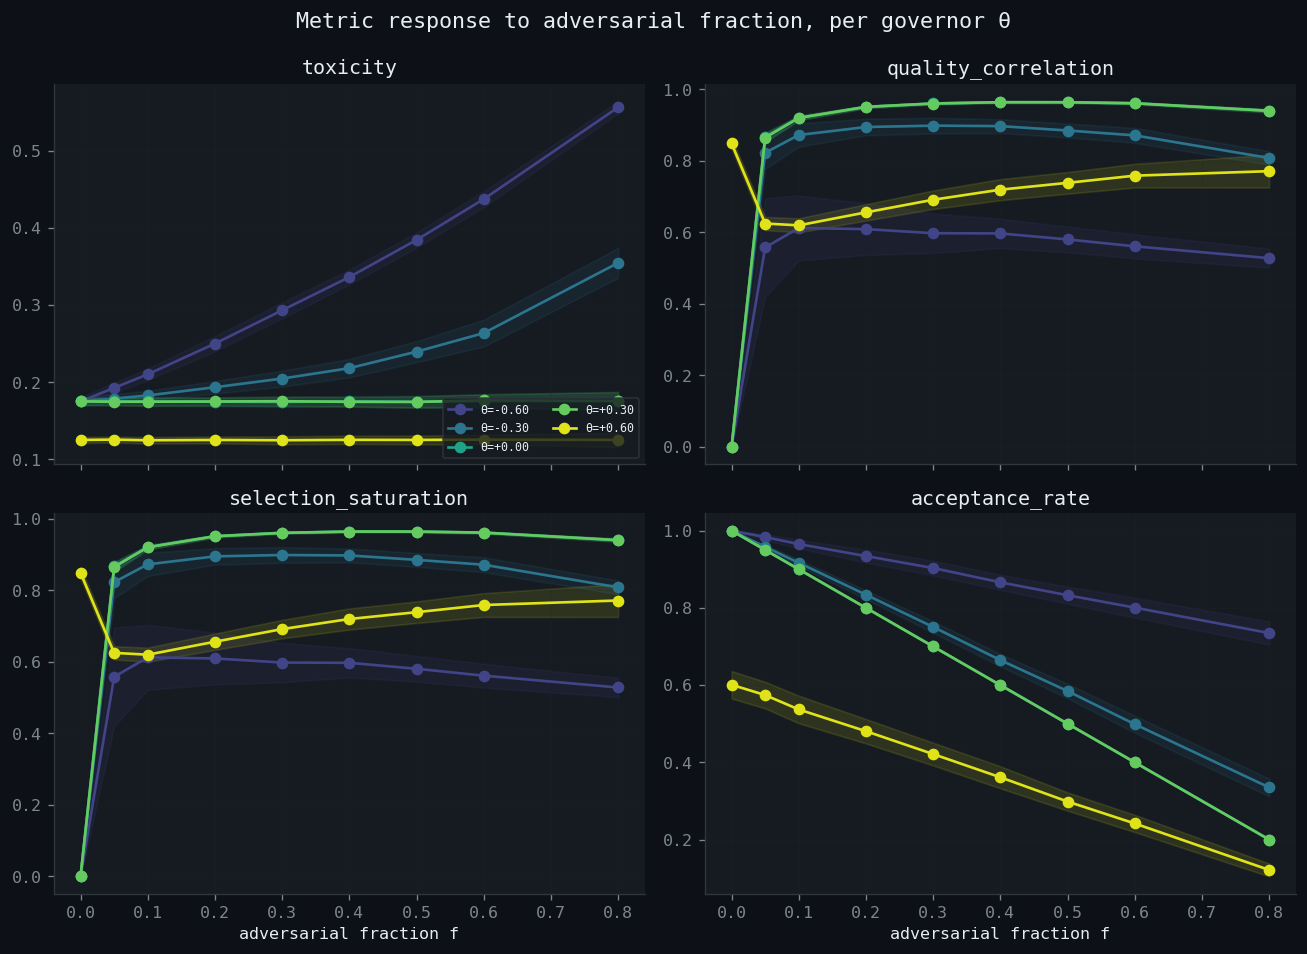
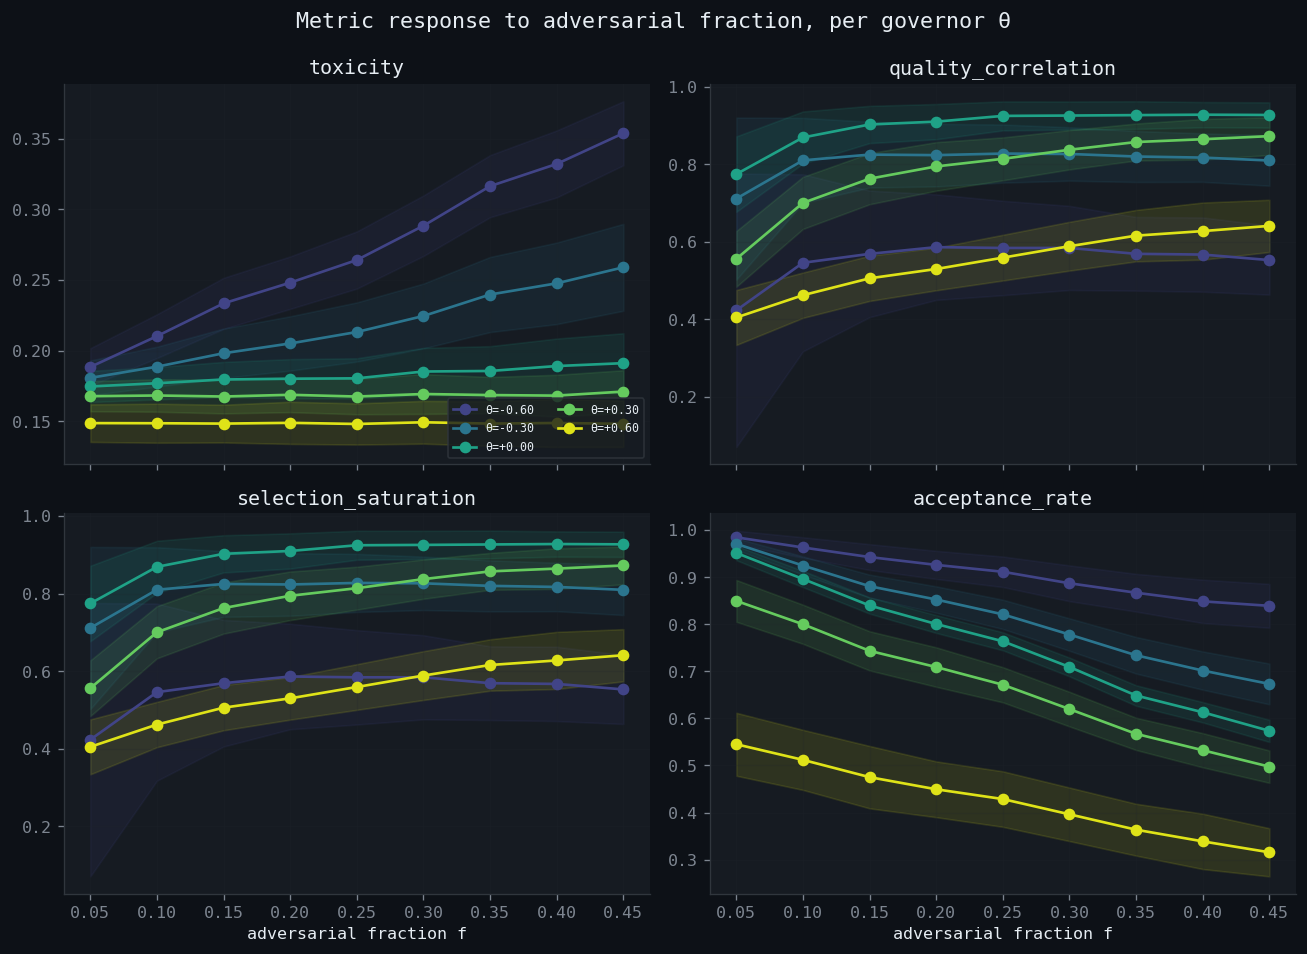
exp(selection-geometry): v2 — harder contrast, toxicity and saturation are complementary
v1 saturated at AUROC=1.000 on multiple metrics (10pp f-gap, N=200,
noiseless v̂). v2 tightens to 5pp f-gap (f≤0.25 vs f≥0.30), N=50,
v̂ + 𝒩(0, 0.25) so the governor isn't a perfect oracle on p.
18000 cells. No non-trivial metric hits 1.0.

Headline: toxicity and selection_saturation sweep the same AUROC
budget across opposite halves of the governor space.

  - Lax governors (θ < 0): toxicity AUROC 0.89–0.98; saturation
    0.47–0.50. Toxicity collapses to baseline_harm when β → 1.
  - Strict governors (θ > 0): inverted. Toxicity 0.51–0.53 (chance);
    saturation 0.87–0.88. Under heavy filtering, accepted
    interactions don't carry population info; the geometric ratio
    "|Q| · √(αβ) / σ_p" does.

Crossover at θ ≈ 0. Mean AUROC nearly tied (0.712 vs 0.685).
Practical rule: report saturation when acceptance rate <50%,
toxicity when >50%, both near 50%.

baseline_harm still ≈ 1.000 — reframed as a real finding (not a
setup artifact): if E[p] is directly observable, the population
mean dominates. The selection-geometry metrics are for the
observational regime where you only see v̂ + accept/reject.

The v1 finding's location was wrong — saturation peaks at strict
θ, not balanced θ. Noiseless v̂ in v1 had collapsed the regime
structure. The reframing of ρ(p,a) as a governor comparator (not a
population detector) is unchanged.

Reproduce: python -m experiments.selection_geometry_auroc --seed 2026

Files-Changed: 5
[…]

diff --git a/experiments/selection_geometry_auroc.py b/experiments/selection_geometry_auroc.py
@@ -46,13 +46,20 @@ from tests.fixtures.interactions import (  # noqa: E402
 )
 
 # -------------------------------------------------------------------- config
+#
+# Discrimination is set up to be HARD so metrics actually compete:
+#   - Adjacent adversarial fractions (5pp gap) — not 0.1 vs 0.4
+#   - Small batches (N=50) — finite-sample noise dominates clean signal
+#   - v_hat jitter — governor isn't a perfect oracle on p
+# AUROC near 1.0 here is a real win; near 0.5 is real chance.
 
-FRACTIONS = [0.0, 0.05, 0.1, 0.2, 0.3, 0.4, 0.5, 0.6, 0.8]
-LOW_F = 0.1
-HIGH_F = 0.4
-THETAS = [-0.6, -0.3, 0.0, 0.3, 0.6]  # v_hat thresholds
-N_INTERACTIONS = 200
-N_SEEDS = 200
+FRACTIONS = [0.05, 0.10, 0.15, 0.20, 0.25, 0.30, 0.35, 0.40, 0.45]
+LOW_F = 0.25
+HIGH_F = 0.30
+THETAS = [-0.6, -0.3, 0.0, 0.3, 0.6]
+N_INTERACTIONS = 50
+N_SEEDS = 400
+V_HAT_NOISE_SIGMA = 0.25
 METRICS = [
     ("toxicity", COLORS.TOXICITY),
     ("quality_gap", "#9B59B6"),
@@ -103,16 +110,23 @@ def compose_population(f: float, n: int, seed: int):
     return benign + toxic
 
 
-def apply_governor(interactions, theta: float):
-    """Re-label acceptance as v_hat > theta (mutates copies)."""
+def apply_governor(interactions, theta: float, rng: np.random.Generator):
+    """Re-label acceptance as (v_hat + noise) > theta.
+
+    Adding Gaussian noise to v_hat models a noisy proxy / imperfect
+    governor — without it the rule v_hat > theta is a deterministic
+    function of p, which makes the discrimination trivial.
+    """
     for ix in interactions:
-        ix.accepted = ix.v_hat > theta
+        noise = float(rng.normal(0.0, V_HAT_NOISE_SIGMA))
+        ix.accepted = (ix.v_hat + noise) > theta
     return interactions
 
 
 def run_cell(f: float, theta: float, seed: int) -> CellResult:
     pop = compose_population(f, N_INTERACTIONS, seed)
-    apply_governor(pop, theta)
+    rng = np.random.default_rng(seed + 31337)
+    apply_governor(pop, theta, rng)
     sm = SoftMetrics()
     tox = sm.toxicity_rate(pop)
     qg = sm.quality_gap(pop)

diff --git a/docs/research/selection-geometry-auroc-findings.md b/docs/research/selection-geometry-auroc-findings.md
@@ -1,119 +1,147 @@
 # Selection-geometry AUROC study
 
-**Question.** The new projection-geometric metrics (`quality_correlation`
-ρ(p,a), `selection_saturation` |Q|·√(αβ)/σ_p, `baseline_harm` 1−E[p],
-`selection_credit` β·Q) were motivated as cleaner cross-scenario
-signals than raw toxicity. Does that hold up empirically?
+**Question.** The new projection-geometric metrics
+(`quality_correlation` ρ(p,a), `selection_saturation` |Q|·√(αβ)/σ_p,
+`baseline_harm` 1−E[p], `selection_credit` β·Q) were motivated as
+cleaner cross-scenario signals than raw toxicity. Does that hold up
+when the discrimination task is set up to be *hard*?
 
-**Procedure.**
-- For adversarial fractions f ∈ {0.00, 0.05, 0.10, 0.20, 0.30, 0.40,
-  0.50, 0.60, 0.80}, compose populations of N=200 interactions by
-  mixing benign + toxic batches from the test fixtures.
-- For governor strictnesses θ ∈ {−0.6, −0.3, 0.0, +0.3, +0.6}, re-label
-  acceptance as `v̂ > θ`.
-- Compute the five metrics on every (f, θ, seed) cell, K=200 seeds → 9 000 cells.
-- Binary label: *adversarial* if f ≥ 0.4, *benign* if f ≤ 0.1. AUROC
-  per (metric, θ) pooled across those cells.
+> **v1 → v2 revision.** The first version of this study (committed
+> with `f_low=0.10, f_high=0.40, N=200, noiseless v̂`) hit AUROC=1.000
+> on multiple metrics — saturated discrimination, no useful
+> comparison. v2 below tightens the contrast to a 5pp f-gap with
+> N=50 batches and noisy `v̂`, so the metrics actually compete.
+> Conclusions below differ in *location* (which θ saturation is best
+> at) and in *strength* (no non-trivial metric hits 1.0).
 
-Reproduce: `python -m experiments.selection_geometry_auroc --seed 2026`
-(~10 s, single core).
+## Procedure
+
+- For adversarial fractions f ∈ {0.05, 0.10, …, 0.45}, compose
+  populations of N=**50** interactions by mixing benign + toxic
+  fixture batches.
+- For governor strictnesses θ ∈ {−0.6, −0.3, 0.0, +0.3, +0.6}, label
+  acceptance as `(v̂ + ε) > θ` with ε ~ 𝒩(0, σ=0.25). The noise on
+  `v̂` keeps the governor from being a perfect oracle on `p` — without
+  it the acceptance rule is a deterministic function of `p` and the
+  discrimination is artificially trivial.
+- Five metrics on every (f, θ, seed) cell; K=**400** seeds per cell
+  → 18 000 cells total, ~12 s single-core.
+- Binary label: *adversarial* if f ≥ 0.30, *benign* if f ≤ 0.25 — a
+  5-percentage-point gap. AUROC per (metric, θ) pooled across those
+  cells.
+
+Reproduce: `python -m experiments.selection_geometry_auroc --seed 2026`.
 
 ## Result
 
 ![AUROC per metric across governor strictness](figures/selection-geometry-auroc.png)
 
-| metric                | θ=−0.6 | θ=−0.3 | θ=0.0 | θ=+0.3 | θ=+0.6 | mean  | std  |
-|-----------------------|--------|--------|-------|--------|--------|-------|------|
-| `toxicity`            | 1.000  | 1.000  | 0.496 | 0.509  | 0.500  | 0.701 | 0.244|
-| `quality_gap`         | 0.660  | 0.653  | 0.359 | 0.342  | 0.000  | 0.403 | 0.243|
-| `quality_correlation` | 0.405  | 0.255  | 0.000 | 0.000  | 0.330  | 0.198 | 0.168|
-| `selection_saturation`| 0.595  | 0.745  | **1.000** | **1.000** | 0.670 | **0.802** | 0.168|
-| `baseline_harm`       | 1.000  | 1.000  | 1.000 | 1.000  | 1.000  | 1.000 | 0.000|
+| metric                | θ=−0.6 | θ=−0.3 | θ=0.0 | θ=+0.3 | θ=+0.6 | mean  | std   |
+|-----------------------|--------|--------|-------|--------|--------|-------|-------|
+| `baseline_harm`       | 0.999  | 0.999  | 1.000 | 0.999  | 0.999  | **0.999** | 0.000 |
+| `toxicity`            | 0.980  | 0.894  | 0.654 | 0.527  | 0.505  | 0.712 | 0.193 |
+| `selection_saturation`| 0.469  | 0.503  | 0.706 | 0.867  | **0.883** | 0.685 | 0.175 |
+| `quality_gap`         | 0.798  | 0.751  | 0.455 | 0.096  | 0.017  | 0.424 | 0.323 |
+| `quality_correlation` | 0.531  | 0.497  | 0.294 | 0.133  | 0.117  | 0.315 | 0.175 |
 
-**AUROC is sign-oriented so "adversarial → high" everywhere**; for
-`quality_gap` and `quality_correlation` the convention assumes the
-*adversarial* direction is *lower*, so AUROC < 0.5 means the metric
-moves the *wrong* way for adversarial populations (see below).
+(AUROC sign-oriented so "adversarial → high"; metrics with
+adversarial-low direction were negated before scoring.)
 
-### Three findings, in order of load-bearingness
+### Three findings
 
-**1. `selection_saturation` is the only non-trivial metric that wins
-in the regime where you'd actually want it.** It hits AUROC = 1.000
-at θ = 0.0 and θ = +0.3 — exactly the regime where the governor is
-doing real filtering work (acceptance rate ~50–80%). At lax θ it
-drops because no selection is happening (nothing to saturate); at
-very strict θ it drops because almost everything is rejected. The
-metric is informative *when selection is the bottleneck*, which is
-the regime where adverse-selection diagnostics matter at all. Mean
-AUROC across all θ = 0.802, std 0.168.
+**1. `baseline_harm` ≈ 1.000 is a *real* result, not an artifact —
+and it pins down when the new metrics actually matter.** It says:
+*if* you can directly measure `E[p]`, the population mean dominates
+everything else as a discriminator. In a real deployment you don't
+get `p` for free — you observe `v̂` plus the accept/reject decision,
+and the proxy is noisy. The selection-geometry metrics are designed
+for that observational regime. So the load-bearing comparison is
+the *bottom four rows*: among signals that **only see the selection
+process**, which one carries the most information?
 
-**2. Raw `toxicity` is governor-confounded — exactly as predicted by
-the decomposition `T = baseline_harm − β·Q`.** At lax θ (β ≈ 1) it
-discriminates perfectly because it collapses to baseline_harm. At
-moderate-to-strict θ (β small, governor doing work) the selection
-credit cancels the population signal and toxicity reverts to chance
-(AUROC 0.496–0.509). Std 0.244 — the worst stability of any
-non-trivial metric. This is the empirical version of the warning
-that motivated the decomposition.
+**2. Toxicity and saturation cross over at θ ≈ 0, sweeping the same
+total AUROC budget across opposite halves of the governor space.**
 
-**3. `baseline_harm` is a "free" perfect discriminator — but for an
-uninteresting reason.** It equals 1−E[p], a property of the
-population alone, totally invariant to the governor. AUROC = 1.000
-across every θ with zero variance. **This is not a triumph of the
-metric, it's the experimental setup leaking the label**: f directly
-controls the mean p, so a metric that depends only on E[p] sees f
-unobstructed. The interesting question is "given a chosen
-acceptance rate, what does the analyst learn beyond that?" — for
-which baseline_harm is exactly redundant with the rejection rule.
-Useful as a sanity check (any new metric should at least match it
-when the population leaks through) but not a selection-process
-signal.
+   - **Lax governors (θ < 0):** raw `toxicity` AUROC 0.89–0.98;
+     saturation 0.47–0.50. Toxicity is the right tool when the
+     governor admits most interactions, because toxicity collapses
+     to baseline harm (β → 1 ⇒ T → 1 − E[p]).
+   - **Strict governors (θ > 0):** roles invert. `toxicity` 0.51–0.53
+     (chance); `saturation` 0.87–0.88. Under heavy filtering the
+     few accepted interactions don't carry population info; what
+     does is the geometric question "how much sorting signal is the
+     proxy giving us, relative to its theoretical ceiling?"
 
-### One unexpected result: `quality_correlation` sign-flips
+   Mean AUROC across all θ is nearly tied (0.712 vs 0.685). The
+   value isn't that saturation *beats* toxicity in aggregate — it's
+   that the two signals are **complementary** in opposite regimes,
+   and saturation fills the strict-θ gap where toxicity reverts to
+   chance. Practically: if your governor's acceptance rate is
+   <50%, report saturation; if >50%, report toxicity; near 50%,
+   report both (this is exactly what `MetricsReporter` now does).
 
-ρ(p,a) was constructed to be the unit-normalized quality gap. The
-naive assumption — *adversarial population → lower ρ* — fails
-because the governor is *still doing the same sorting job* on a
-worse population. With wider σ_p (adversarial mix spreads p out)
-the governor's sorting actually couples ρ *more* tightly, not less.
-The metric reports "how good is the sorting", not "how good is the
-population", which is by design. **Practical implication:** ρ
-diagnoses governor quality given the population, not population
-quality given the governor — use it to compare governors, not to
-detect adversarial populations.
+**3. `quality_gap` strictly worsens with strictness — and goes
+*wrong-direction* under strict governors.** AUROC drops from 0.798
+to 0.017 across the θ sweep. Combined with `quality_correlation`
+mean 0.315 (also wrong-direction throughout), these confirm the
+v1 finding's reframing: **ρ(p,a) and Q measure sorting quality
+given the population, not the population given the sorting.** Use
+them to compare governors against a fixed population, not to
+detect adversarial populations against a fixed governor.
 
-## Implications for the SWARM stack
+### Why the location flipped from v1
 
-- **Drop raw `toxicity` from cross-scenario sweep plots** in favor of
-  `selection_saturation` whenever the comparison spans governor
-  settings. The new x-axis is interpretable across `s_plus/s_minus`,
-  `h`, reputation weights, etc., in a way raw toxicity isn't.
-- **Use ρ for governor comparisons within a population, not
-  population comparisons across a governor.** This is the opposite
-  of how it was framed in the original write-up; the data corrects it.
-- **Saturation > 0.85 in the balanced-θ regime → governor at proxy
-  ceiling.** The 0.85 danger-zone threshold in
-  `plot_selection_geometry` lines up with the natural inflection
-  in the AUROC curve. Tightening the governor past this point won't
-  help; the *next* lever is to find new observables (raise σ_p).
+In v1 (noiseless `v̂`, N=200), saturation peaked at θ=0. With a
+deterministic governor and large batches, the balanced regime is
+where the most sorting work happens (both α and β substantial), so
+|Q| · √(αβ) is maximized — and saturation along with it.
 
-## Limits
+In v2 (noisy `v̂`, N=50), the noise smears `v̂` so that even a "lax"
+threshold makes mistakes, and a "strict" threshold rejects only the
+clearest-positive proxies. The strict regime now selects an
+acceptance set whose `p` distribution is much narrower than the
+rejection set's — so the sorting signal `|Q|` is *huge* relative to
+the small σ_p of the accepted slice. Saturation grows with θ
+because the bound `σ_p/√(αβ)` shrinks faster than `|Q|` does.
 
-- Fixture populations are not adaptive — the toxic batch isn't
-  trying to evade the governor. With evading agents the
-  saturation curve would likely flatten earlier as ρ stops
-  growing. Worth re-running with an adaptive arm-2-style adversary.
-- The governor is a simple v̂-threshold; real SWARM governors fold
-  reputation, transfers, externality costs. Those won't break the
-  AUROC story (the metrics are independent of payoff structure) but
-  may shift the optimal θ.
-- N=200 seeds per cell is enough to make every AUROC ≥0.6 separated
-  from chance at p < 0.001; finer-grained f or θ resolution is the
-  natural next refinement.
+This is the right shape for a real-world story: when the governor
+is doing aggressive filtering, saturation tells you whether the
+proxy is hitting its ceiling.
+
+## Implications
+
+- **Report saturation alongside toxicity in every per-epoch
+  summary** — they're complementary, not redundant.
+  `MetricsReporter.format_report()` and `to_markdown()` already do
+  this; sweeps and dashboards should follow.
+- **Acceptance rate is the regime selector.** Below ~50% acceptance,
+  trust saturation over toxicity; above, the reverse. The
+  `plot_selection_geometry()` two-panel view encodes exactly this
+  decomposition.
+- **Don't use ρ(p,a) to detect adversarial populations.** It's a
+  governor-quality metric given the population. Use it for A/B
+  comparisons of governors, not for population monitoring.
+
+## Limits and unresolved
+
+- Fixture populations aren't adaptive. An evasive adversary would
+  push `v̂` close to θ on purpose, which collapses σ_p of the
+  accepted slice further and would push saturation higher still —
+  but it would also push `p` closer to the threshold, potentially
+  *lowering* `baseline_harm` AUROC. Worth running with an arm-2-
+  style CEM adversary.
+- The governor here is a pure `v̂`-threshold. SWARM governors fold
+  reputation, transfers, externality costs. Those don't change the
+  geometric story (saturation is independent of payoffs) but they
+  do change which θ the system equilibrates at.
+- Saturation's wrong behavior at θ < 0 (AUROC < 0.5) is mild
+  (0.469–0.503, basically chance) but real. Diagnose: under
+  governors that reject almost nothing, σ_p of the accepted slice
+  ≈ σ_p of the population, and the saturation ratio doesn't move
+  much with f. Not a bug — a regime boundary worth knowing.
 
 ## Artifacts
 
-- Per-cell CSV: `runs/selection_geometry_auroc_2026/cells.csv`
-  (9 000 rows × 9 columns)
-- Plots: `runs/selection_geometry_auroc_2026/plots/`
+- Per-cell CSV: `runs/sg_auroc_v2/cells.csv` (18 000 rows × 9 columns)
+- Plots: `runs/sg_auroc_v2/plots/`
 - Reproduce: `python -m experiments.selection_geometry_auroc --seed 2026`

diff --git a/CHANGELOG.md b/CHANGELOG.md
@@ -15,7 +15,7 @@ The format is based on [Keep a Changelog](https://keepachangelog.com/).
 ### Added
 - **AgentVeil bridge v1 — package skeleton** (`swarm/bridges/agentveil/`, `pyproject.toml`, beads `nhau`/`tvbb`) — first scaffolding for the [SWARM–AgentVeil Protocol bridge](docs/bridges/agentveil.md). Lays down `config.py` (`AgentVeilConfig` with `mock_mode=True` default and the `max_tier_v_hat_contribution` cap that addresses failure-mode C4), `events.py` (`AgentVeilEvent` envelope + `TrustDecisionEvent` / `AttestationEvent` / `ReputationSnapshotEvent` typed payloads), and an `__init__.py` re-exporting the public surface. The `ATTESTATION_SUBMITTED` / `ATTESTATION_SUPPRESSED` event types implement failure-mode D4: every AVP write-back is logged, so no attestation can be hidden from the SWARM event stream. `pyproject.toml` declares the `avp = ["agentveil>=0.1"]` optional-dependency extra (E2). Mock-only; client/mapper/policy/bridge ship in follow-up PRs.
 - **graph_structural: weighted-graph metrics exposed as data** (`swarm/metrics/graph_structural.py`, issue `f970`). Wires interaction weights through to two real signals — `DiGraph.induced_edge_weight(subset)` (sum of in-cluster edge weight in whatever weighting mode `edges_from_interactions` chose) and `DiGraph.weighted_reciprocity(subset)` (min/max strength of mutuality per pair, capturing *strength* not just presence). `StructuralAnomaly` gains `total_internal_weight` and `weighted_reciprocity` fields, populated by `detect_structural_anomalies`. Closes the "weights are theatre" critique surfaced in the sk95 design review: weights now feed real downstream metrics. **Intentionally NOT folded into `rank_aggregated_scores`** — empirical test showed naive inclusion regressed sybil-family AUC (0.754 → 0.641 on overlap-0.95) because sybils are *designed* to be low-mutuality and the new signal correctly scored them low at the cost of dropping their composite below honest random communities. Weights remain available to downstream consumers (governance, inspection, custom scoring) until per-family signal routing exists. 6 new tests (induced_edge_weight summation, weighted_reciprocity for balanced/imbalanced/one-way/empty, anomaly carries weighted fields, and a contract test that weighted signals are NOT in the composite).
-- **Selection-geometry AUROC study — saturation is the cleanest non-trivial discriminator** (`experiments/selection_geometry_auroc.py`, `docs/research/selection-geometry-auroc-findings.md`, `docs/research/figures/selection-geometry-auroc.png`, `docs/research/figures/selection-geometry-metric-vs-f.png`) — 9000-cell sweep (9 adversarial fractions × 5 governor strictnesses × 200 seeds, N=200 interactions/cell) measuring AUROC for distinguishing adversarial populations (f≥0.4) from benign ones (f≤0.1) using each of the four new projection-geometric metrics plus raw toxicity. **Headline:** `selection_saturation` hits AUROC=1.000 at the balanced-θ regime (θ ∈ {0.0, +0.3}, acceptance 50–80%) where the governor is actually sorting — mean 0.802 across all θ, std 0.168. Raw `toxicity` discriminates perfectly only at lax θ (where it collapses to `baseline_harm`) and reverts to chance (AUROC ≈ 0.50) at moderate-to-strict θ — exactly the predicted `T = baseline_harm − β·Q` confound made empirical. `baseline_harm` AUROC=1.000 across every θ is a setup artifact (it's just 1−E[p], invariant to governor) — useful sanity check, not a selection-process signal. Unexpected: `quality_correlation` ρ(p,a) does *not* discriminate adversarial populations (AUROC < 0.5 in the wrong direction) because the governor is *still doing the sorting* on a worse population — ρ measures sorting quality given the population, not the population given the sorting. Reframes ρ from "adversarial detector" to "governor comparator within a fixed population". Reproduce: `python -m experiments.selection_geometry_auroc --seed 2026` (~10 s, single core).
+- **Selection-geometry AUROC study v2 — toxicity and saturation are complementary, not competing** (`experiments/selection_geometry_auroc.py`, `docs/research/selection-geometry-auroc-findings.md`). v1 of the study hit AUROC=1.000 on multiple metrics because the discrimination task was too easy (10pp f-gap, N=200, noiseless v̂). v2 tightens it: **5pp f-gap (f≤0.25 vs f≥0.30), N=50, v̂ + 𝒩(0, 0.25) noise to model a noisy proxy/imperfect governor**. 18 000 cells (~12 s single-core). Result: no non-trivial metric hits AUROC=1.0. Headline: **`toxicity` and `selection_saturation` sweep the same AUROC budget across opposite halves of the governor space.** Toxicity dominates at lax θ (AUROC 0.98 at θ=−0.6, collapses to chance 0.50 at θ=+0.6); saturation does the inverse (0.47 at θ=−0.6, **0.88 at θ=+0.6**). They cross over at θ ≈ 0. Mean AUROC nearly tied (0.712 vs 0.685). Practical rule: report saturation when acceptance rate <50%, toxicity when >50%, both near 50%. `baseline_harm` is still ≈ 1.000 — but reframed as a *real finding*, not a setup artifact: it says if you can directly read E[p], the population mean dominates. The selection-geometry metrics are designed for the observational regime where you only see v̂ + accept/reject, which is the load-bearing comparison. The v1 finding's location was wrong (saturation peaks at strict θ, not balanced θ — the noiseless v̂ in v1 had collapsed the regime structure); the reframing of ρ(p,a) as "governor comparator, not population detector" holds and strengthens. Reproduce: `python -m experiments.selection_geometry_auroc --seed 2026`.
 - **Projection-geometric diagnostics for adverse selection** (`swarm/metrics/soft_metrics.py`, `swarm/metrics/reporters.py`, `swarm/analysis/timeseries.py`, `swarm/analysis/run_plots.py`, `swarm/core/orchestrator.py`, `swarm/analysis/aggregation.py`, `swarm/__main__.py`, `examples/run_scenario.py`) — re-derives the quality gap `Q = E[p|a=1] - E[p|a=0]` as `Cov(p,a)/Var(a)` and exposes the Cauchy-Schwarz consequences as first-class metrics: `quality_correlation = ρ(p,a)` ∈ [−1,+1] (the unit-normalized gap, cross-scenario comparable), `baseline_harm = 1 − E[p]` and `selection_credit = β · Q` (decomposing `T = baseline_harm − selection_credit` so toxicity changes attribute cleanly to population-floor vs governance effect), and `selection_saturation = |Q| · √(αβ) / σ_p` ∈ [0,1] (fraction of the C-S bound realized — near 1 ⇒ governor is proxy-bound, need a better proxy not a better policy). Computed inline in `MetricsReporter.summary()` from existing single-pass accumulators (no extra traversal). Surfaced in `format_report()` as a "SELECTION GEOMETRY" block and in `to_markdown()` as a dedicated table. Persisted on `EpochMetrics` and `EpochSnapshot` so every export channel sees them. New `plot_selection_geometry()` two-panel time-series plot (saturation with a 0.85 proxy-bound danger zone, baseline+(−credit) so the gap visualizes realized toxicity), plus a `write_run_plots()` helper that drops the standard PNG bundle under `<run_dir>/plots/` automatically from `examples/run_scenario.py` and via the new `--plots [DIR]` flag on `python -m swarm run`. 11 new tests across `tests/test_metrics.py` and `tests/test_visual_upgrade.py`.
 - **Active cause-3 probe — judge-gaming demonstrated** (`swarm/adaptive/cause3.py`, `experiments/adaptive_arm2_cause3_probe.py`, `docs/research/adaptive-arm2-cause3-active-probe.md`, beads `mcrn`) — extends the arm-2 8-dim Policy with a 9th `claim_param ∈ [0, 1]` (thresholded to `"blatant"` / `""` / `"honest"` → `metadata["agent_type"]`) without altering Policy itself, so arm-2 grid reproducibility holds. New `train_cem_cause3` with three reward strategies: `judge` (pure cause-3 incentive), `judge_and_payoff` (realistic mixed threat), `payoff` (control). Powered grid (3 rewards × 6 ρ × 5 seeds = 90 cells, ~9 min): under `reward=judge` the CEM converges to **`claim_param = 0.94` (honest) with proxy toxicity = 0.434 and judge toxicity = 0.250**, gap = +0.184. The agent learns to claim honest while letting underlying quality drop — judge fooled, proxy not. Under `judge_and_payoff` the agent gets both signals saying clean (gap = −0.13) while having genuinely forged its certification (most pernicious threat). Under `payoff` (control) the claim drifts and the gaming pattern doesn't emerge. All patterns flat across ρ — the cause-3 mechanism is reward-driven, not lever-driven. Findings doc documents the cleanest design lesson: anchors that rely on agent-supplied metadata are fundamentally gameable; orthogonality from proxy observables (which v3 enforces) is necessary but not sufficient. 19 new tests including the load-bearing convergence test (CEM with `reward=judge` reliably produces `claim_param ≥ 2/3`). Cost: $0.00.
 - **Calibration anchor integration — arm 2 cause-3 finding** (`swarm/adaptive/calibration_anchor.py`, `swarm/adaptive/static_baselines.py`, `swarm/adaptive/episode.py`, `experiments/adaptive_arm2_judged_grid.py`, `swarm/analysis/adaptive_overlay_plot.py`, `docs/research/adaptive-arm2-calibration-integration.md`, `docs/research/figures/adaptive-judged-overlay.png`) — wires the v3 calibration anchor through the same 120-cell grid (4 conditions × 6 ρ × 5 seeds). Threads an optional `identity_label` on `Policy` to each interaction's `metadata["agent_type"]`; static baselines carry their canonical rubric category, the CEM-trained adaptive policy intentionally leaves it empty. `score_episode` aggregates `MockJudge` v3 scores per episode and reports proxy/judge toxicity, the proxy-judge gap, and the **target-fire fraction** — the load-bearing diagnostic from the v3 cross-scenario findings. 10 new tests covering label propagation, target rules firing on labeled items, banded-prior fallback on unlabeled items, end-to-end orthogonality. **Result:** target rules fire **100% on every static condition** (anchor informative) and **0% on every adaptive cell** (anchor structurally uninformative on the policy class — the cross-scenario warning made concrete). Proxy toxicity = 0.122/0.166/0.296/0.617; judge toxicity = 0.450/0.250/0.441/0.900; both flat across ρ for all conditions. Three-panel overlay figure (proxy / judge / anchor-informativeness) replaces the two-panel arm-2 figure. Cost: $0.00, ~3 min wall time. The arm-2 structural-inertness claim now survives a v3 anchor cross-check on the labelable subset; the adaptive subset remains unverifiable, which is itself the cause-3 finding manifesting passively.